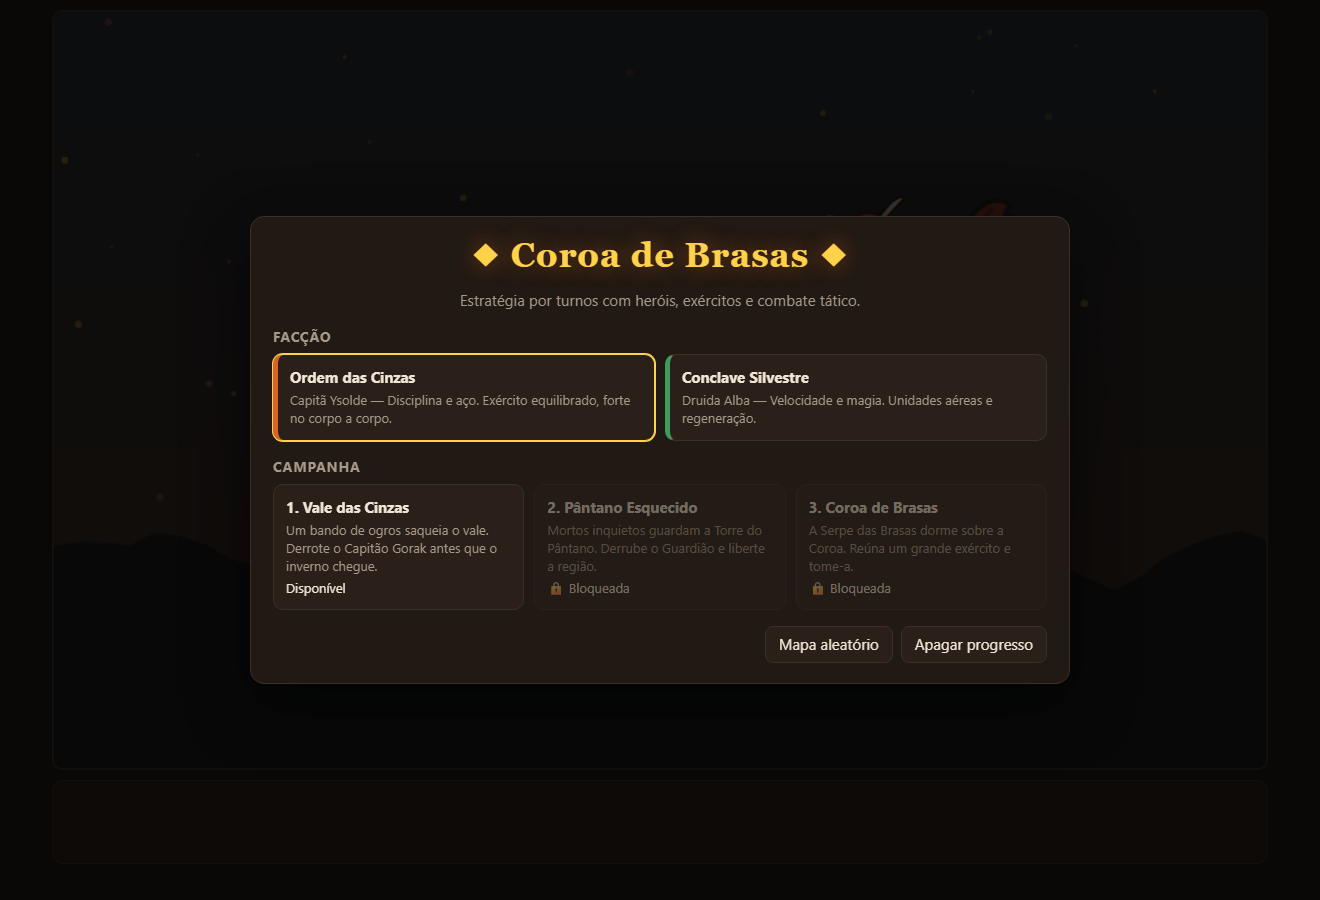
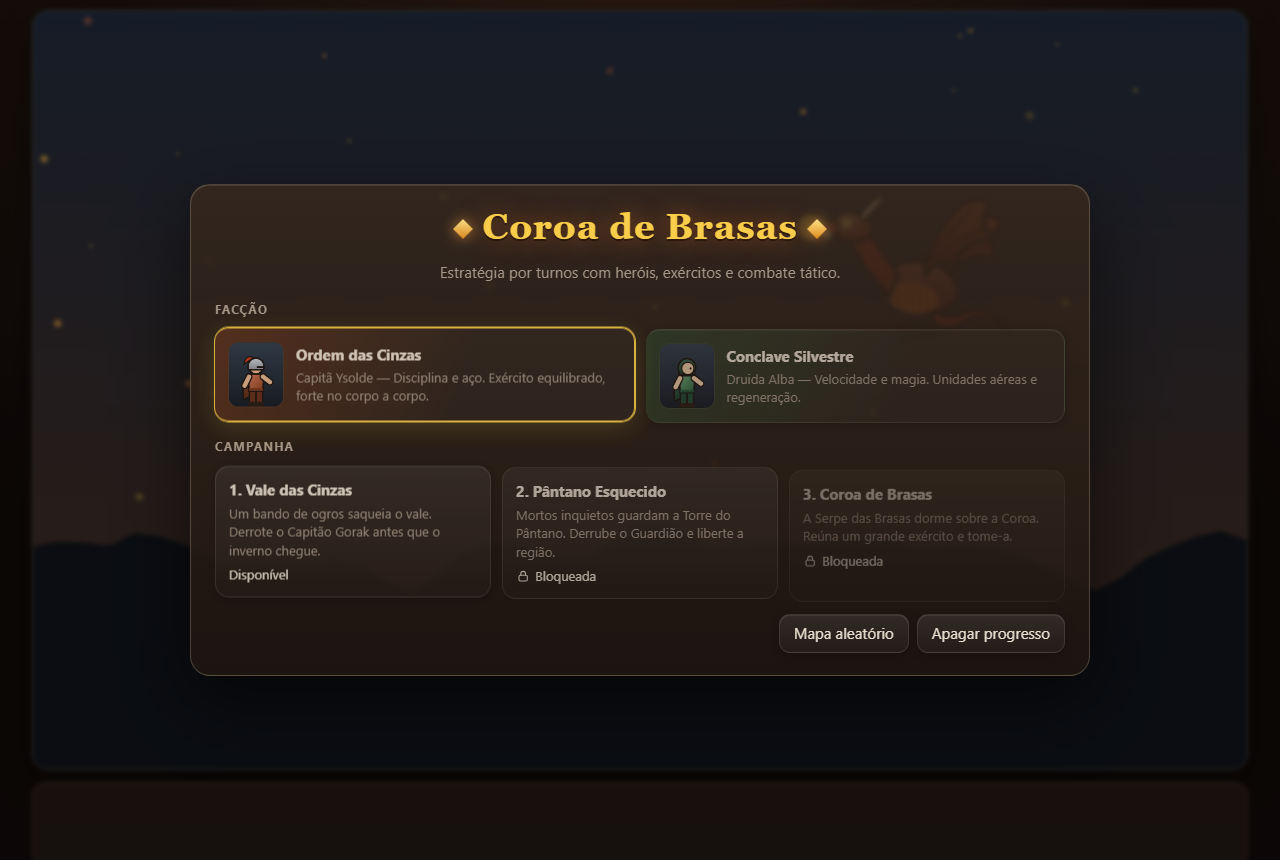
Novidades: visual fluido e cidade como cena; capturas novas

diff --git a/CHANGELOG.md b/CHANGELOG.md
@@ -1,5 +1,12 @@
 # Novidades
 
+## Em desenvolvimento (demo web) — Visual fluido
+
+- Interface nova: vidro e desfoque, botões que afundam e brilham ao toque, janelas que deslizam, números e barras que animam.
+- **Cidade como cena viva**: cada construção surge com andaimes, poeira e som, e depois ganha fumaça, bandeiras ao vento e janelas acesas.
+- Menu com retratos dos heróis e ícones no mesmo estilo (sem emojis).
+- Próximo: arte mais coesa, animação de unidades e batalha com câmera. Jogue a demo: https://coroa-de-brasas-demo.vercel.app
+
 ## 2.0.0 — Reconstrução completa
 
 - Arte totalmente nova: terreno, árvores, montanhas, objetos e personagens animados desenhados por código, com sombras e contornos.
